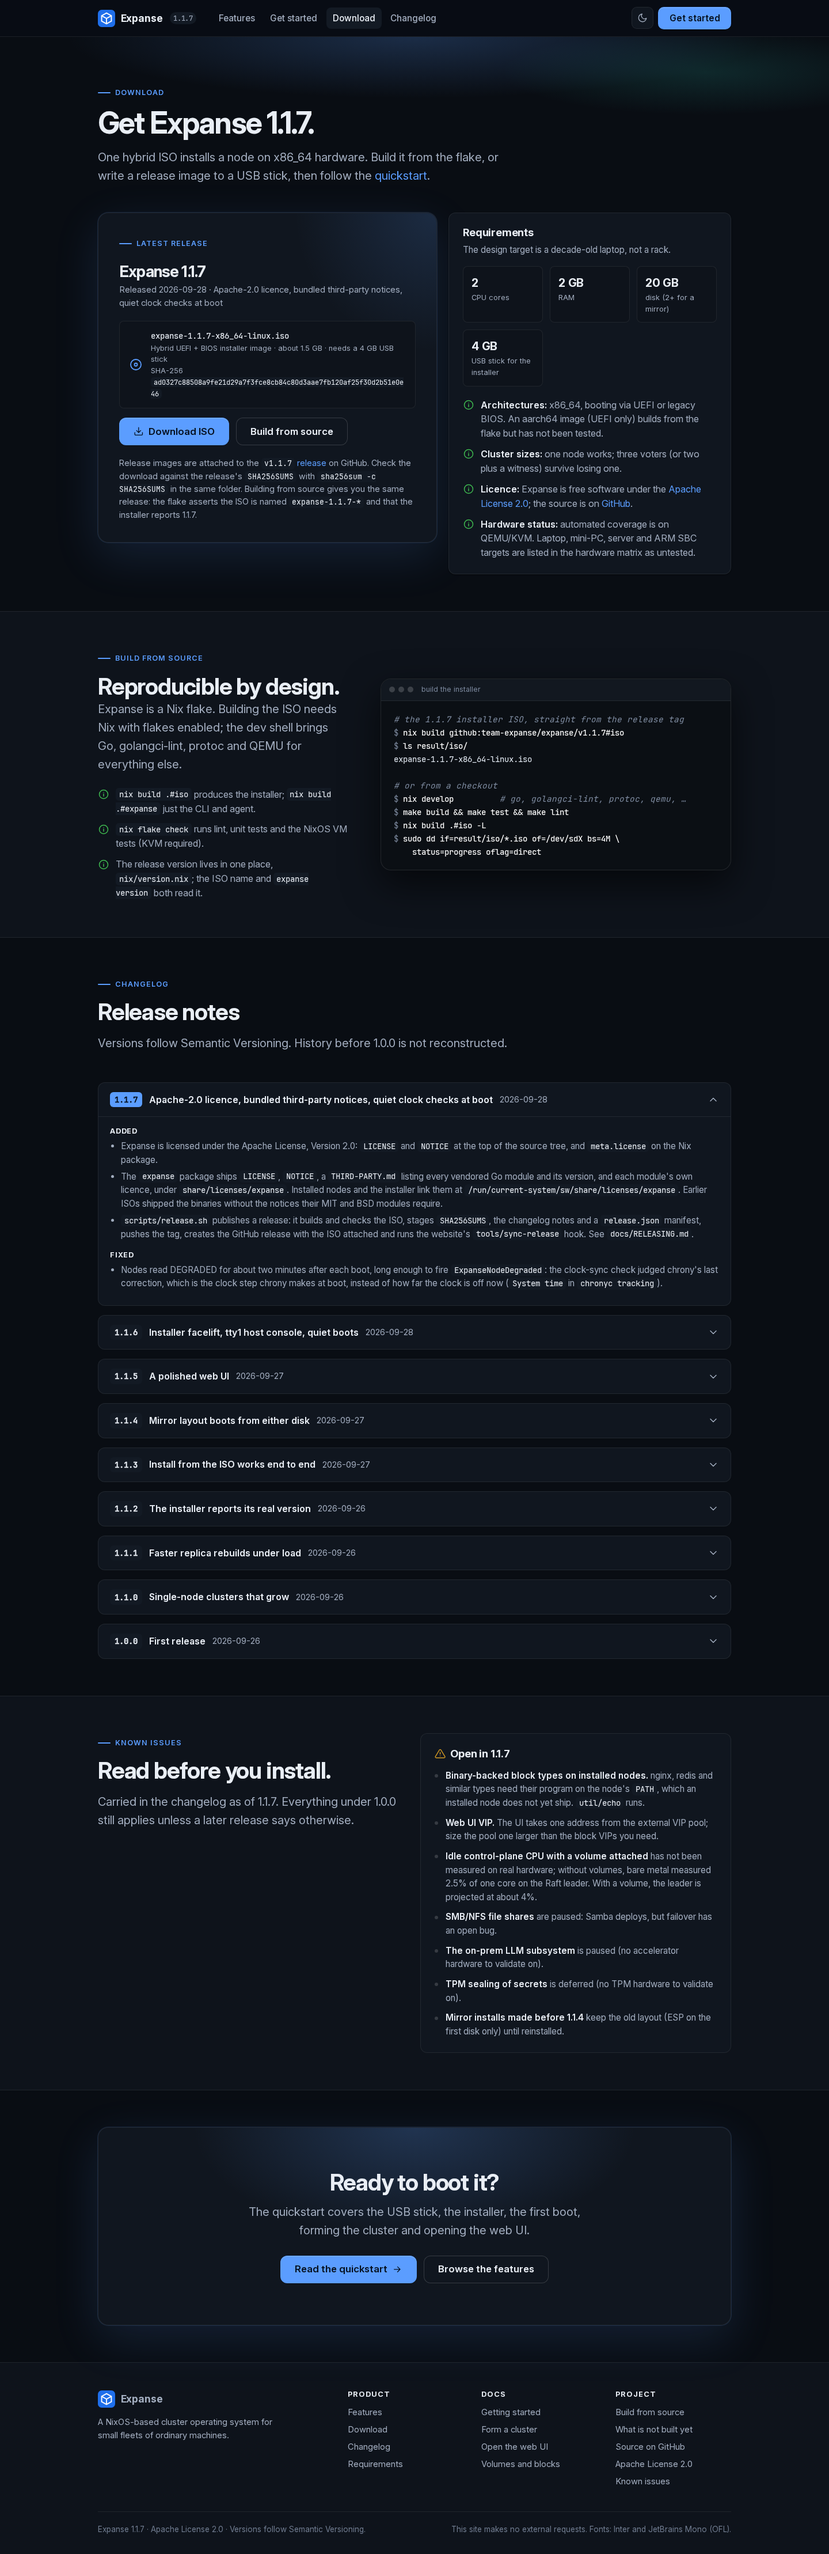
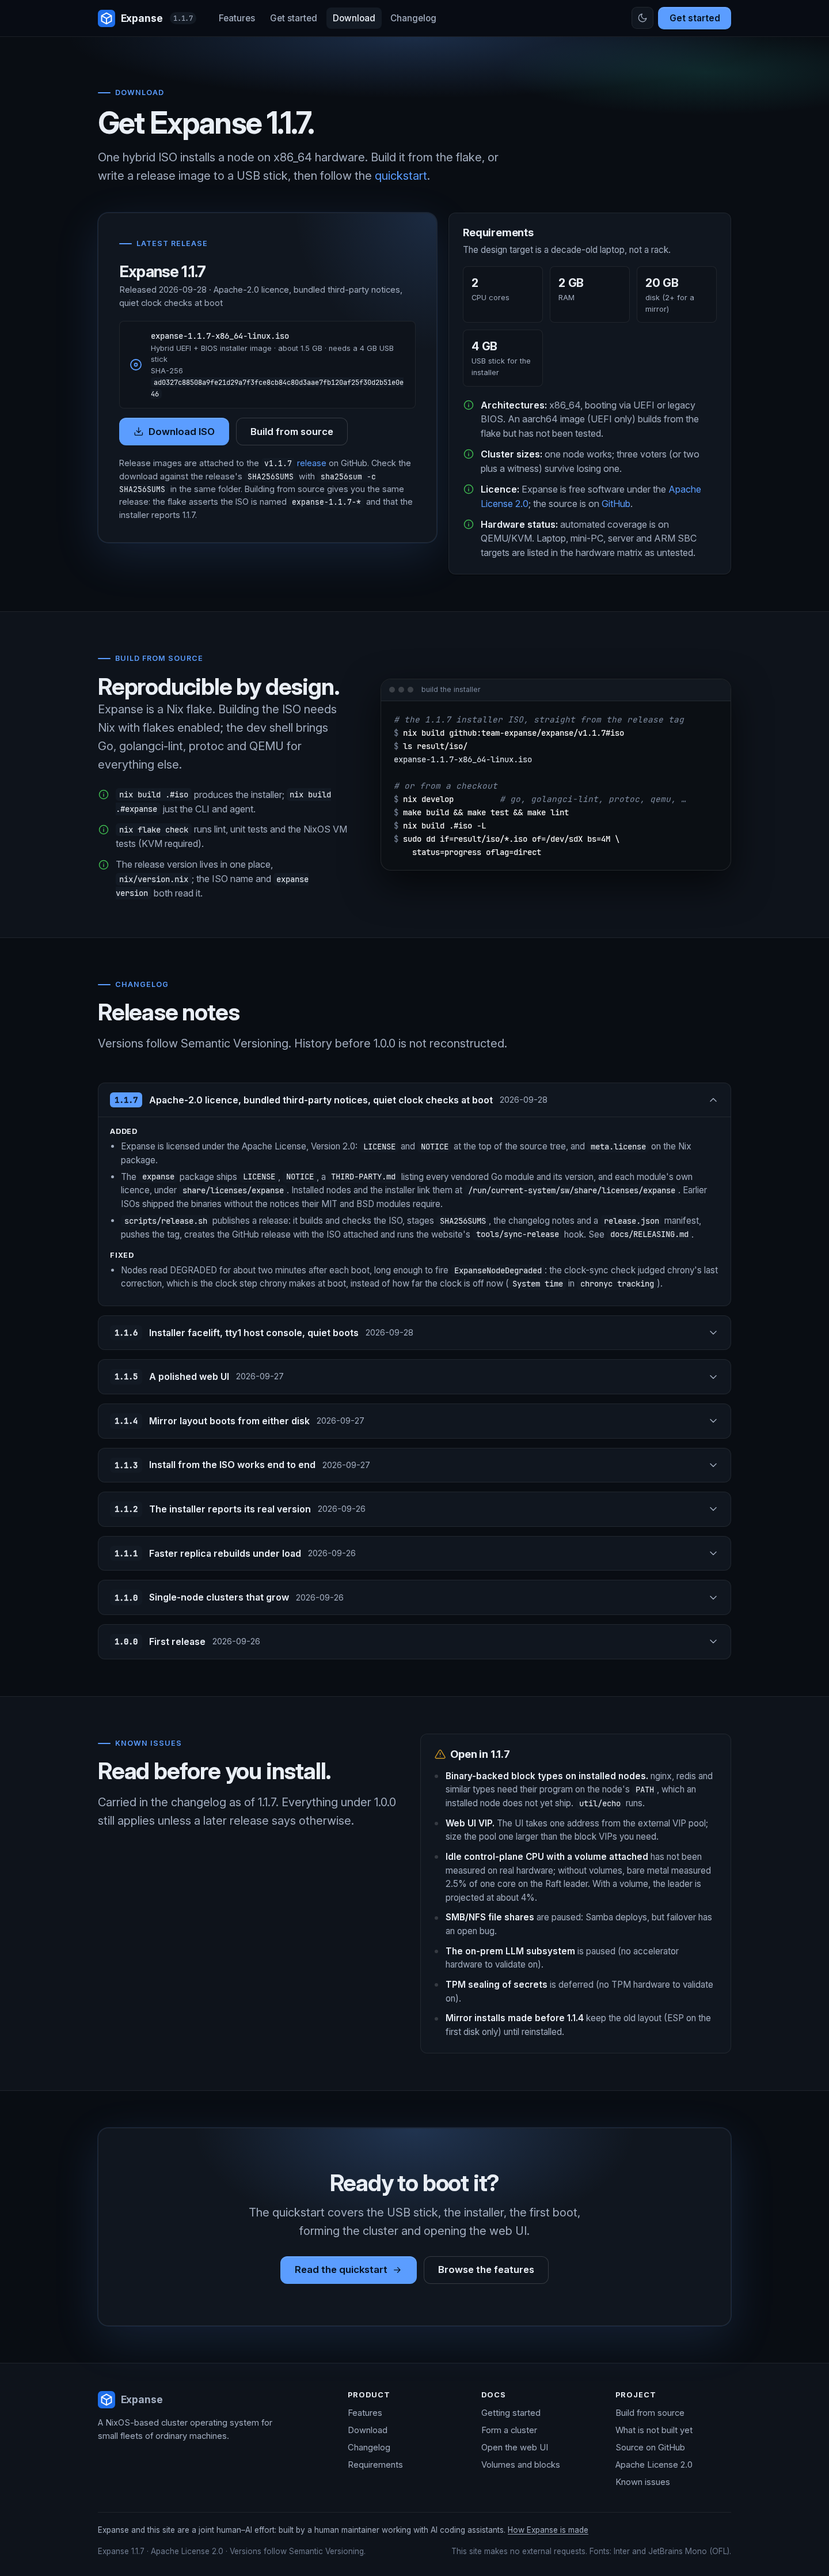
Disclose that Expanse and this site are a joint human-AI effort
Every page's footer says so and links to a new "How Expanse is made"
section on the landing page: a human maintainer working with AI coding
assistants, the Co-Authored-By trailers in the history, and a reminder
to judge the project on its tests and known issues. The wording names no
model, vendor or tool; the commits record those.

Also offsets section anchors below the sticky header.

Claude-Session: https://claude.ai/code/session_01TJ4uj8SR2WCx7QSxgW4hcT

diff --git a/index.html b/index.html
@@ -430,6 +430,24 @@
     </div>
   </section>
 
+  <!-- How it is made -->
+  <section class="section-tight section-alt" id="made-with-ai">
+    <div class="container">
+      <div class="split">
+        <div>
+          <div class="eyebrow">How Expanse is made</div>
+          <h2>A joint <span class="nowrap">human–AI</span> project.</h2>
+          <p class="lead">Expanse's code, tests and documentation, and this website, were built by a human maintainer working with AI coding assistants. The AI wrote much of the code and prose. The maintainer directs the work and decides what ships.</p>
+        </div>
+        <ul class="checks">
+          <li><svg class="icon" aria-hidden="true"><use href="#i-info"/></svg><span><strong>It is in the history.</strong> Most commits in both repositories credit an AI co-author in a <code>Co-Authored-By</code> trailer. <a href="https://github.com/team-expanse/expanse/commits/main">Read the commit log</a>.</span></li>
+          <li><svg class="icon" aria-hidden="true"><use href="#i-info"/></svg><span><strong>Claims come with evidence.</strong> What this site says is drawn from the project's tests, docs and changelog, and what has not been verified is marked as such. Real hardware, for example, is still untested.</span></li>
+          <li><svg class="icon" aria-hidden="true"><use href="#i-info"/></svg><span><strong>Judge it on its record.</strong> The VM tests exercise failures, not just the happy path, but automated tests are no substitute for your own evaluation. Read the <a href="download.html#known-issues">known issues</a> before trusting Expanse with data you care about.</span></li>
+        </ul>
+      </div>
+    </div>
+  </section>
+
   <!-- CTA -->
   <section class="section-tight">
     <div class="container">
@@ -482,6 +500,7 @@
       </div>
     </div>
     <div class="footer-bottom">
+      <p class="made-with">Expanse and this site are a joint human–AI effort: built by a human maintainer working with AI coding assistants. <a href="index.html#made-with-ai">How Expanse is made</a></p>
       <span>Expanse 1.1.7 · Apache License 2.0 · Versions follow Semantic Versioning.</span>
       <span>This site makes no external requests. Fonts: Inter and JetBrains Mono (OFL).</span>
     </div>

diff --git a/assets/site.css b/assets/site.css
@@ -502,6 +502,10 @@ table.t td:first-child { font-weight: 600; white-space: nowrap; }
 .site-footer a { color: var(--muted); }
 .site-footer a:hover { color: var(--fg); }
 .footer-bottom { margin-top: 2.5rem; padding-top: 1.25rem; border-top: 1px solid var(--border); display: flex; justify-content: space-between; gap: 1rem; flex-wrap: wrap; font-size: 0.85rem; color: var(--faint); }
+.footer-bottom .made-with { flex-basis: 100%; margin: 0; color: var(--muted); }
+.footer-bottom .made-with a { text-decoration: underline; text-underline-offset: 0.15em; }
+.nowrap { white-space: nowrap; }
+section[id] { scroll-margin-top: var(--header-h); }
 
 /* ---------- page hero (subpages) ---------- */
 .page-hero { padding: clamp(3rem, 6vw, 5rem) 0 clamp(2rem, 4vw, 3rem); position: relative; overflow: clip; }

diff --git a/docs/getting-started.html b/docs/getting-started.html
@@ -285,6 +285,7 @@
       </div>
     </div>
     <div class="footer-bottom">
+      <p class="made-with">Expanse and this site are a joint human–AI effort: built by a human maintainer working with AI coding assistants. <a href="../index.html#made-with-ai">How Expanse is made</a></p>
       <span>Expanse 1.1.7 · Apache License 2.0 · Versions follow Semantic Versioning.</span>
       <span>This site makes no external requests. Fonts: Inter and JetBrains Mono (OFL).</span>
     </div>

diff --git a/download.html b/download.html
@@ -362,6 +362,7 @@
       </div>
     </div>
     <div class="footer-bottom">
+      <p class="made-with">Expanse and this site are a joint human–AI effort: built by a human maintainer working with AI coding assistants. <a href="index.html#made-with-ai">How Expanse is made</a></p>
       <span>Expanse 1.1.7 · Apache License 2.0 · Versions follow Semantic Versioning.</span>
       <span>This site makes no external requests. Fonts: Inter and JetBrains Mono (OFL).</span>
     </div>

diff --git a/features.html b/features.html
@@ -553,6 +553,7 @@
       </div>
     </div>
     <div class="footer-bottom">
+      <p class="made-with">Expanse and this site are a joint human–AI effort: built by a human maintainer working with AI coding assistants. <a href="index.html#made-with-ai">How Expanse is made</a></p>
       <span>Expanse 1.1.7 · Apache License 2.0 · Versions follow Semantic Versioning.</span>
       <span>This site makes no external requests. Fonts: Inter and JetBrains Mono (OFL).</span>
     </div>

diff --git a/README.md b/README.md
@@ -73,6 +73,14 @@ Light and dark follow `prefers-color-scheme`; the header toggle overrides it
 and remembers the choice in `localStorage`. Motion is disabled under
 `prefers-reduced-motion`.
 
+## How it is made
+
+Expanse and this website are a joint human–AI effort: a human maintainer
+working with AI coding assistants. The site says so on every page (footer) and
+in the landing page's "How Expanse is made" section. Most commits credit the AI
+co-author in a `Co-Authored-By` trailer. The disclosure deliberately names no
+model, vendor or tool, since those change over time; the commits record them.
+
 ## License
 
 The site is licensed under the [Apache License, Version 2.0](LICENSE); see
